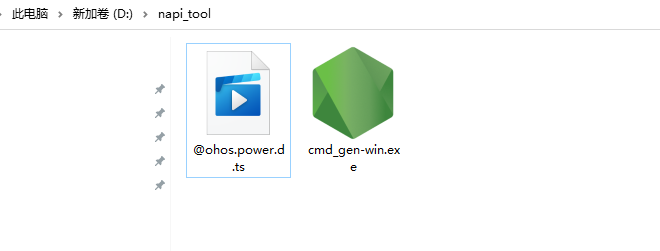
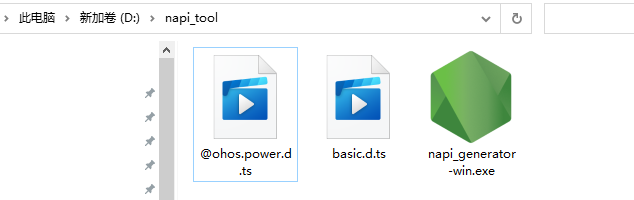
Add pre check for d.ts files

diff --git a/src/gen/tools/common.js b/src/gen/tools/common.js
@@ -13,6 +13,29 @@
 * limitations under the License. 
 */
 const re = require("./re");
+const tsc = require("../../../node_modules/typescript");
+
+function CheckFileError(ifname) {
+    let program = tsc.createProgram([ifname], {})
+    let emitResult = program.emit();
+    let allDiagnostics = tsc.getPreEmitDiagnostics(program).concat(emitResult.diagnostics);
+
+    let errorMsg = ''
+    allDiagnostics.forEach(diagnostic => {
+        if (diagnostic.file) {
+            let { line, character } = tsc.getLineAndCharacterOfPosition(diagnostic.file, diagnostic.start);
+            let message = tsc.flattenDiagnosticMessageText(diagnostic.messageText, "\n");
+            errorMsg += `${diagnostic.file.fileName} (${line + 1},${character + 1}): ${message}\n`;
+        } else {
+            errorMsg += tsc.flattenDiagnosticMessageText(diagnostic.messageText, "\n") + "\n";
+        }
+    });
+
+    if (allDiagnostics.length > 0) {
+        return [false, errorMsg];
+    }
+    return [true, ""];
+}
 
 class FuncType { }
 FuncType.DIRECT = 1
@@ -66,5 +89,6 @@ module.exports = {
     FuncType,
     NumberIncrease,
     InterfaceList,
-    getArrayType
+    getArrayType,
+    CheckFileError
 }

diff --git a/src/gen/cmd_gen.js b/src/gen/cmd_gen.js
@@ -14,6 +14,7 @@
 */
 const main = require("./main");
 const re = require("./tools/re");
+const { CheckFileError } = require("./tools/common");
 
 function print(...args) {
     console.log(...args)
@@ -31,7 +32,13 @@ let fn = re.getFileInPath(ops.filename)
 
 let tt = re.match("@ohos.[a-zA-Z0-9]+.d.ts", fn)
 if (tt) {
-    main.doGenerate(ops.filename, ops.out)
+    let result = CheckFileError(ops.filename);
+    if (result[0]) {
+        main.doGenerate(ops.filename, ops.out)
+    }
+    else {
+        console.log(result[1])
+    }
 }
 else {
     print("\n文件名 " + fn + " 校验失败，需要符合 @ohos.xxx.d.ts")

diff --git a/README.md b/README.md
@@ -40,40 +40,67 @@ Developers can use the source code to compile and package the corresponding exec
 
 ### Source code
 
-Through the command: git clone git@gitee.com :openharmony-sig/assist_ tools.git to download the corresponding source code.
+Through the command: git clone git@gitee.com:openharmony-sig/napi_generator.git to download the corresponding source code.
 
 ### pack
 
 #### Executable file development instructions
-1.Install pkg :execute the command sudo npm i -g pkg
 
-2.Package three versions : execute the command pkg vscode_plugin/gnapi/gen/cmd_gen.js
+1.Install typescript: execute the command npm i typescript under napi_generator directory
 
-After performing the preceding steps，ou can generate Windows, Linux, and MAC executable programs in the Gen directory:cmd_gen-win.exe、cmd_gen-linux、cmd_gen-macos.
+2.Install stdio: execute the command npm i stdio under napi_generator direction
+
+3.Install pkg :execute the command sudo npm i -g pkg
+
+4.Package three versions : execute the command pkg .
+
+After performing the preceding steps，ou can generate Windows, Linux, and MAC executable programs in the Gen directory:napi_generator-win.exe、napi_generator-linux、napi_generator-macos.
 
 #### Plug-in development Instructions
 1. Install yo : execute the command npm install -g yo generator-code.
 
 2. Use yo : execute the command yo code，gnapi is a plug-in code framework generated by Yo Code, in which gnAPI/Gen directory is the source code of the automatic generation of NAPI program we developed.
 
-   ![](figures/pic-gen-source-code.png)
+   ```
+   xudong@xudong:~/gen_plug_napi/napi/gen$ ls
+   analyze  analyze.js  cmd_gen.js  extend  generate  generate.js  main.js  test.js  tools
+   
+   ```
+
+   
 
 3. Run npm i vsce in the napi_generator/vscode_plugin/gnapi directory.
 
 4. Execute the command./node_modules/vsce/vsce package command，The final package generates a plugin, gnapI-0.0.1.vsix.
 
-   ![](figures/pic-gen-vsix.png)
+   ```
+   xudong@xudong:~/gen_plug_napi/napi$ npx vsce package
+   WARNING  A 'repository' field is missing from the 'package.json' manifest file.
+   Do you want to continue? [y/N] y
+   WARNING  Using '*' activation is usually a bad idea as it impacts performance.
+   More info: https://code.visualstudio.com/api/references/activation-events#Start-up
+   Do you want to continue? [y/N] y
+   WARNING  LICENSE.md, LICENSE.txt or LICENSE not found
+   Do you want to continue? [y/N] y
+   DONE  Packaged: /home/xudong/gen_plug_napi/napi/napi3-0.0.1.vsix (30 files, 37.7KB)
+   xudong@xudong:~/gen_plug_napi/napi$ ls
+   CHANGELOG.md  extension.js  gen  jsconfig.json  napi3-0.0.1.vsix  node_modules  package.json  package-lock.json  README.md  test  vsc-extension-quickstart.md
+   xudong@xudong:~/gen_plug_napi/napi$ 
+   
+   ```
+   
+   
 
 ## instructions
 
-1. Copy the Windows executable program cmd_gen-win.exe from the gen directory to the corresponding directory. You do not need to install the program.
-2. Copy the Linux executable program cmd_gen-linux from the gen directory to the corresponding directory, and run it directly on the terminal.
+1. Copy the Windows executable program napi_generator-win.exe from the gen directory to the corresponding directory. You do not need to install the program.
+2. Copy the Linux executable program napi_generator-linux from the gen directory to the corresponding directory, and run it directly on the terminal.
 
 ### Usage
 
 #### Windows
 
-1) The.d.ts files to be converted should be placed in any directory. It is recommended to put them in the same directory as the executable program cmd_gen-win.exe, for example:
+1) The.d.ts files to be converted should be placed in any directory. It is recommended to put them in the same directory as the executable program napi_generator-win.exe. And check whether the imported d.ts file is declared in the d.ts file to be converted. If so, it is necessary to put the imported d.ts file into the same directory as the d.ts file to be converted, for example:
 
 ![](figures/pic-d-ts-location.png)
 
@@ -81,9 +108,19 @@ After performing the preceding steps，ou can generate Windows, Linux, and MAC e
 
 ![](figures/pic-cmd.png)
 
-3) In the command line interface (CLI), go to the directory where the previous executable program cmd_gen-win.exe resides and run cmd_gen-win.exe. After cmd_gen-win.exe, the corresponding.
+3. In the command line interface (CLI), go to the directory where the previous executable program napi_generator-win.exe resides and run napi_generator-win.exe. After napi_generator-win.exe, the corresponding.
 
-![](figures/pic-cmd-execute.png)
+   ```
+   E:\napi_tool>napi_generator-win.exe -f @ohos.power.d.ts
+   ```
+
+   The command line parameters are as follows, - f is the parameter that must be added and - o is the optional parameter. If it is not added, the current directory will be added by default.
+
+   ```
+   -f, --filename <ARG1>         .d.ts file                                            -o, --out <ARG1>              output directory ("." by default)
+   ```
+
+   
 
 4) After successful operation, the corresponding file will be generated in the directory where the. D. ts file says, for example:
 
@@ -91,19 +128,36 @@ After performing the preceding steps，ou can generate Windows, Linux, and MAC e
 
 #### Linux
 
-1) Put the.d.ts files to be converted in any directory. It is recommended to put them in the same directory as the executable program cmd_gen-linux, for example:
+1. Put the.d.ts files to be converted in any directory. It is recommended to put them in the same directory as the executable program napi_generator-linux. And check whether the imported d.ts file is declared in the d.ts file to be converted. If so, it is necessary to put the imported d.ts file into the same directory as the d.ts file to be converted, for example:
 
-   ![](figures/pic-d-ts-location-linux.png)
+   ```
+   xudong@xudong:~/napi_tool$ ls
+   napi_generator-linux  @ohos.power.d.ts  basic.d.ts
+   xudong@xudong:~/napi_tool$ 
+   ```
 
-2) In the terminal, go to the directory where the previous executable program cmd_gen-linux resides and run cmd_gen-linux. After cmd_gen-linux, the corresponding. D. s file name, for example:
+   
 
-   ![](figures/pic-cmd-execute-linux.png)
+2. In the terminal, go to the directory where the previous executable programnapi_generator-linux resides and run napi_generator-linux. After napi_generator-linux, the corresponding. D. s file name, for example:
+
+   ```
+   xudong@xudong:~/napi_tool$ ls
+   napi_generator-linux  @ohos.power.d.ts  basic.d.ts
+   xudong@xudong:~/napi_tool$ ./napi_generator-linux -f @ohos.power.d.ts 
+   ```
+
+   
 
 3) After successful operation, the corresponding file will be generated in the directory where the. D. ts file says, for example:
 
-   ![](figures/pic-d-ts-transition-linux.png)
+   ```
+   xudong@xudong:~/napi_tool$ ls
+   basic.d.ts  binding.gyp  BUILD.gn  napi_generator-linux  @ohos.power.d.ts  power.cpp  power.h  power_middle.cpp  test.sh  x_napi_tool.cpp  x_napi_tool.h
+   xudong@xudong:~/napi_tool$ 
+   ```
+   
+   
 
-#### Mac
 Method Step For details about how to use Windows and Linux
 
 ## Plug-in usage

diff --git a/README_ZH.md b/README_ZH.md
@@ -39,7 +39,7 @@
 
 ### 源码
 
-通过命令：git clone git@gitee.com:openharmony-sig/assist_tools.git  下载对应的源码。
+通过命令：git clone git@gitee.com:openharmony-sig/napi_generator.git   下载对应的源码。
 
 ### 打包
 
@@ -49,14 +49,14 @@
 
 ## 使用说明
 
-1. 将gen目录下Windows可执行程序cmd_gen-win.exe拷贝到对应目录下，不需要安装，可以在cmd命令行中直接运行。
-2. 将gen目录下Linux可执行程序cmd_gen-linux拷贝到对应目录下，可以在终端下直接运行。
+1. 将gen目录下Windows可执行程序napi_generator-win.exe拷贝到对应目录下，不需要安装，可以在cmd命令行中直接运行。
+2. 将gen目录下Linux可执行程序napi_generator-linux拷贝到对应目录下，可以在终端下直接运行。
 
 ### 可执行程序使用方法
 
 #### Windows
 
-1) 将要转换的.d.ts文件放到任意目录下，建议放到可执行程序cmd_gen-win.exe同级目录下，例如：
+1) 将要转换的.d.ts文件放到任意目录下，建议放到可执行程序napi_generator-win.exe同级目录下，并且检查需要转换的d.ts文件中是否声明了import的d.ts文件，如果存在需要将import的d.ts文件也放入到待转换的d.ts文件相同的目录下，比如，目前需要待转换的d.ts文件是@ohos.power.d.ts，在该文件中存在import {AsyncCallback} from './basic';这段逻辑，所以需要将basic.d.ts放入到@ohos.power.d.ts相同的目录下。例如：
 
 ![](figures/pic-d-ts-location.png)
 
@@ -64,35 +64,43 @@
 
 ![](figures/pic-cmd.png)
 
-3) 在命令行中进入到之前可执行程序cmd_gen-win.exe所在的目录，并运行cmd_gen-win.exe，在cmd_gen-win.exe后面要对应的.d.ts文件名，例如：
+3. 在命令行中进入到之前可执行程序napi_generator-win.exe所在的目录，并运行napi_generator-win.exe，在napi_generator-win.exe后面要加参数-f，后面在加要对应的.d.ts文件名，如果不加参数-o，输出文件就默认在当前目录下，例如：
 
    ```
-   E:\napi_tool>cmd_gen-win.exe @ohos.power.d.ts
-
+   E:\napi_tool>napi_generator-win.exe -f @ohos.power.d.ts
+   
    ```
 
-4) 运行成功后会在.d.ts文件说在的目录下生成对应的文件，例如：
+   命令行参数如下，-f是必须添加的参数，-o是可选参数，如果不加就默认当前目录。
+
+   ```
+   -f, --filename <ARG1>         .d.ts file                                            -o, --out <ARG1>              output directory ("." by default)
+   ```
+
+   
+
+4. 运行成功后会在.d.ts文件说在的目录下生成对应的文件，例如：
 
 ![](figures/pic-d-ts-transition.png)
 
 #### Linux
 
-1) 将要转换的.d.ts文件放到任意目录下，建议放到可执行程序cmd_gen-linux同级目录下，例如：
+1) 将要转换的.d.ts文件放到任意目录下，建议放到可执行程序napi_generator-linux同级目录下，并且检查需要转换的d.ts文件中是否声明了import的d.ts文件，如果存在需要将import的d.ts文件也放入到待转换的d.ts文件相同的目录下，例如：
 
    ```
    xudong@xudong:~/napi_tool$ ls
-   cmd_gen-linux  @ohos.power.d.ts
+   napi_generator-linux  @ohos.power.d.ts  basic.d.ts
    xudong@xudong:~/napi_tool$ 
 
    ```
 
-2) 在终端中进入到之前可执行程序cmd_gen-linux所在的目录，并运行cmd_gen-linux，在cmd_gen-linux后面要对应的.d.ts文件名，例如：
+2) 在终端中进入到之前可执行程序napi_generator-linux所在的目录，并运行napi_generator-linux，在napi_generator-linux后面要加参数-f，后面在加要对应的.d.ts文件名，如果不加参数-o，输出文件就默认在当前目录下，例如：
 
    ```
    xudong@xudong:~/napi_tool$ ls
-   cmd_gen-linux  @ohos.power.d.ts
-   xudong@xudong:~/napi_tool$ ./cmd_gen-linux @ohos.power.d.ts 
-
+   napi_generator-linux  @ohos.power.d.ts  basic.d.ts
+   xudong@xudong:~/napi_tool$ ./napi_generator-linux -f @ohos.power.d.ts 
+   
    ```
 3) 运行成功后会在.d.ts文件说在的目录下生成对应的文件，例如：
 
@@ -100,7 +108,7 @@
    xudong@xudong:~/napi_tool$ ls
    binding.gyp  BUILD.gn  cmd_gen-linux  @ohos.power.d.ts  power.cpp  power.h  power_middle.cpp  test.sh  x_napi_tool.cpp  x_napi_tool.h
    xudong@xudong:~/napi_tool$ 
-
+   
    ```
 #### Mac
 方法步骤参考windows、Linux的使用方法

diff --git a/DEVELOP.md b/DEVELOP.md
@@ -1,11 +1,15 @@
 
 
 ## 可执行文件开发说明
-1.安装pkg : 执行命令sudo npm i -g pkg
+1.安装typescript：在napi_generator目录下执行命令npm i typescript
 
-2.打包三个版本 : 执行命令pkg vscode_plugin/gnapi/gen/cmd_gen.js
+2.安装stdio：在napi_generator目录下执行命令npm i stdio
 
-执行以上步骤后，即可在gen目录下生成Windows、linux、mac系统下的可执行程序:cmd_gen-win.exe、cmd_gen-linux、cmd_gen-macos。
+3.安装pkg : 在napi_generator目录下执行命令sudo npm i -g pkg
+
+4.打包三个版本 : 执行命令pkg .
+
+执行以上步骤后，即可在gen目录下生成Windows、linux、mac系统下的可执行程序:napi_generator-win.exe、napi_generator-linux、napi_generator-macos。
 
 ## 插件开发说明
 ### Windows
@@ -14,7 +18,7 @@
 
    ```
     D:\napi_generator\gnapi\gen 的目录
-
+   
    2022/02/11  15:14    <DIR>          .
    2022/02/11  15:14    <DIR>          ..
    2022/02/11  15:14    <DIR>          analyze
@@ -44,11 +48,11 @@
    Do you want to continue? [y/N] y
    This extension consists of 1937 files, out of which 1177 are JavaScript files. For performance reasons, you should bundle your extension: https://aka.ms/vscode-bundle-extension . You should also exclude unnecessary files by adding them to your .vscodeignore: https://aka.ms/vscode-vscodeignore
    DONE  Packaged: D:\napi_generator\napi\napi-0.0.1.vsix (1937 files, 2.79MB)
-
+   
    D:\napi_generator\napi>dir
-
+   
    D:\napi_generator\napi 的目录
-
+   
    2022/02/11  15:32    <DIR>          .
    2022/02/11  15:32    <DIR>          ..
    2022/02/11  15:05               429 .eslintrc.json
@@ -68,7 +72,7 @@
    2022/02/11  15:05             2,436 vsc-extension-quickstart.md
               11 个文件      3,124,867 字节
                6 个目录 231,702,446,080 可用字节
-
+   
    ```
 ### Linux
 1. 安装yo : 执行命令npm install -g yo generator-code。
@@ -98,5 +102,5 @@
    xudong@xudong:~/gen_plug_napi/gnapi$ ls
    CHANGELOG.md  extension.js  gen  jsconfig.json  napi3-0.0.1.vsix  node_modules  package.json  package-lock.json  README.md  test  vsc-extension-quickstart.md
    xudong@xudong:~/gen_plug_napi/gnapi$ 
-
+   
    ```
